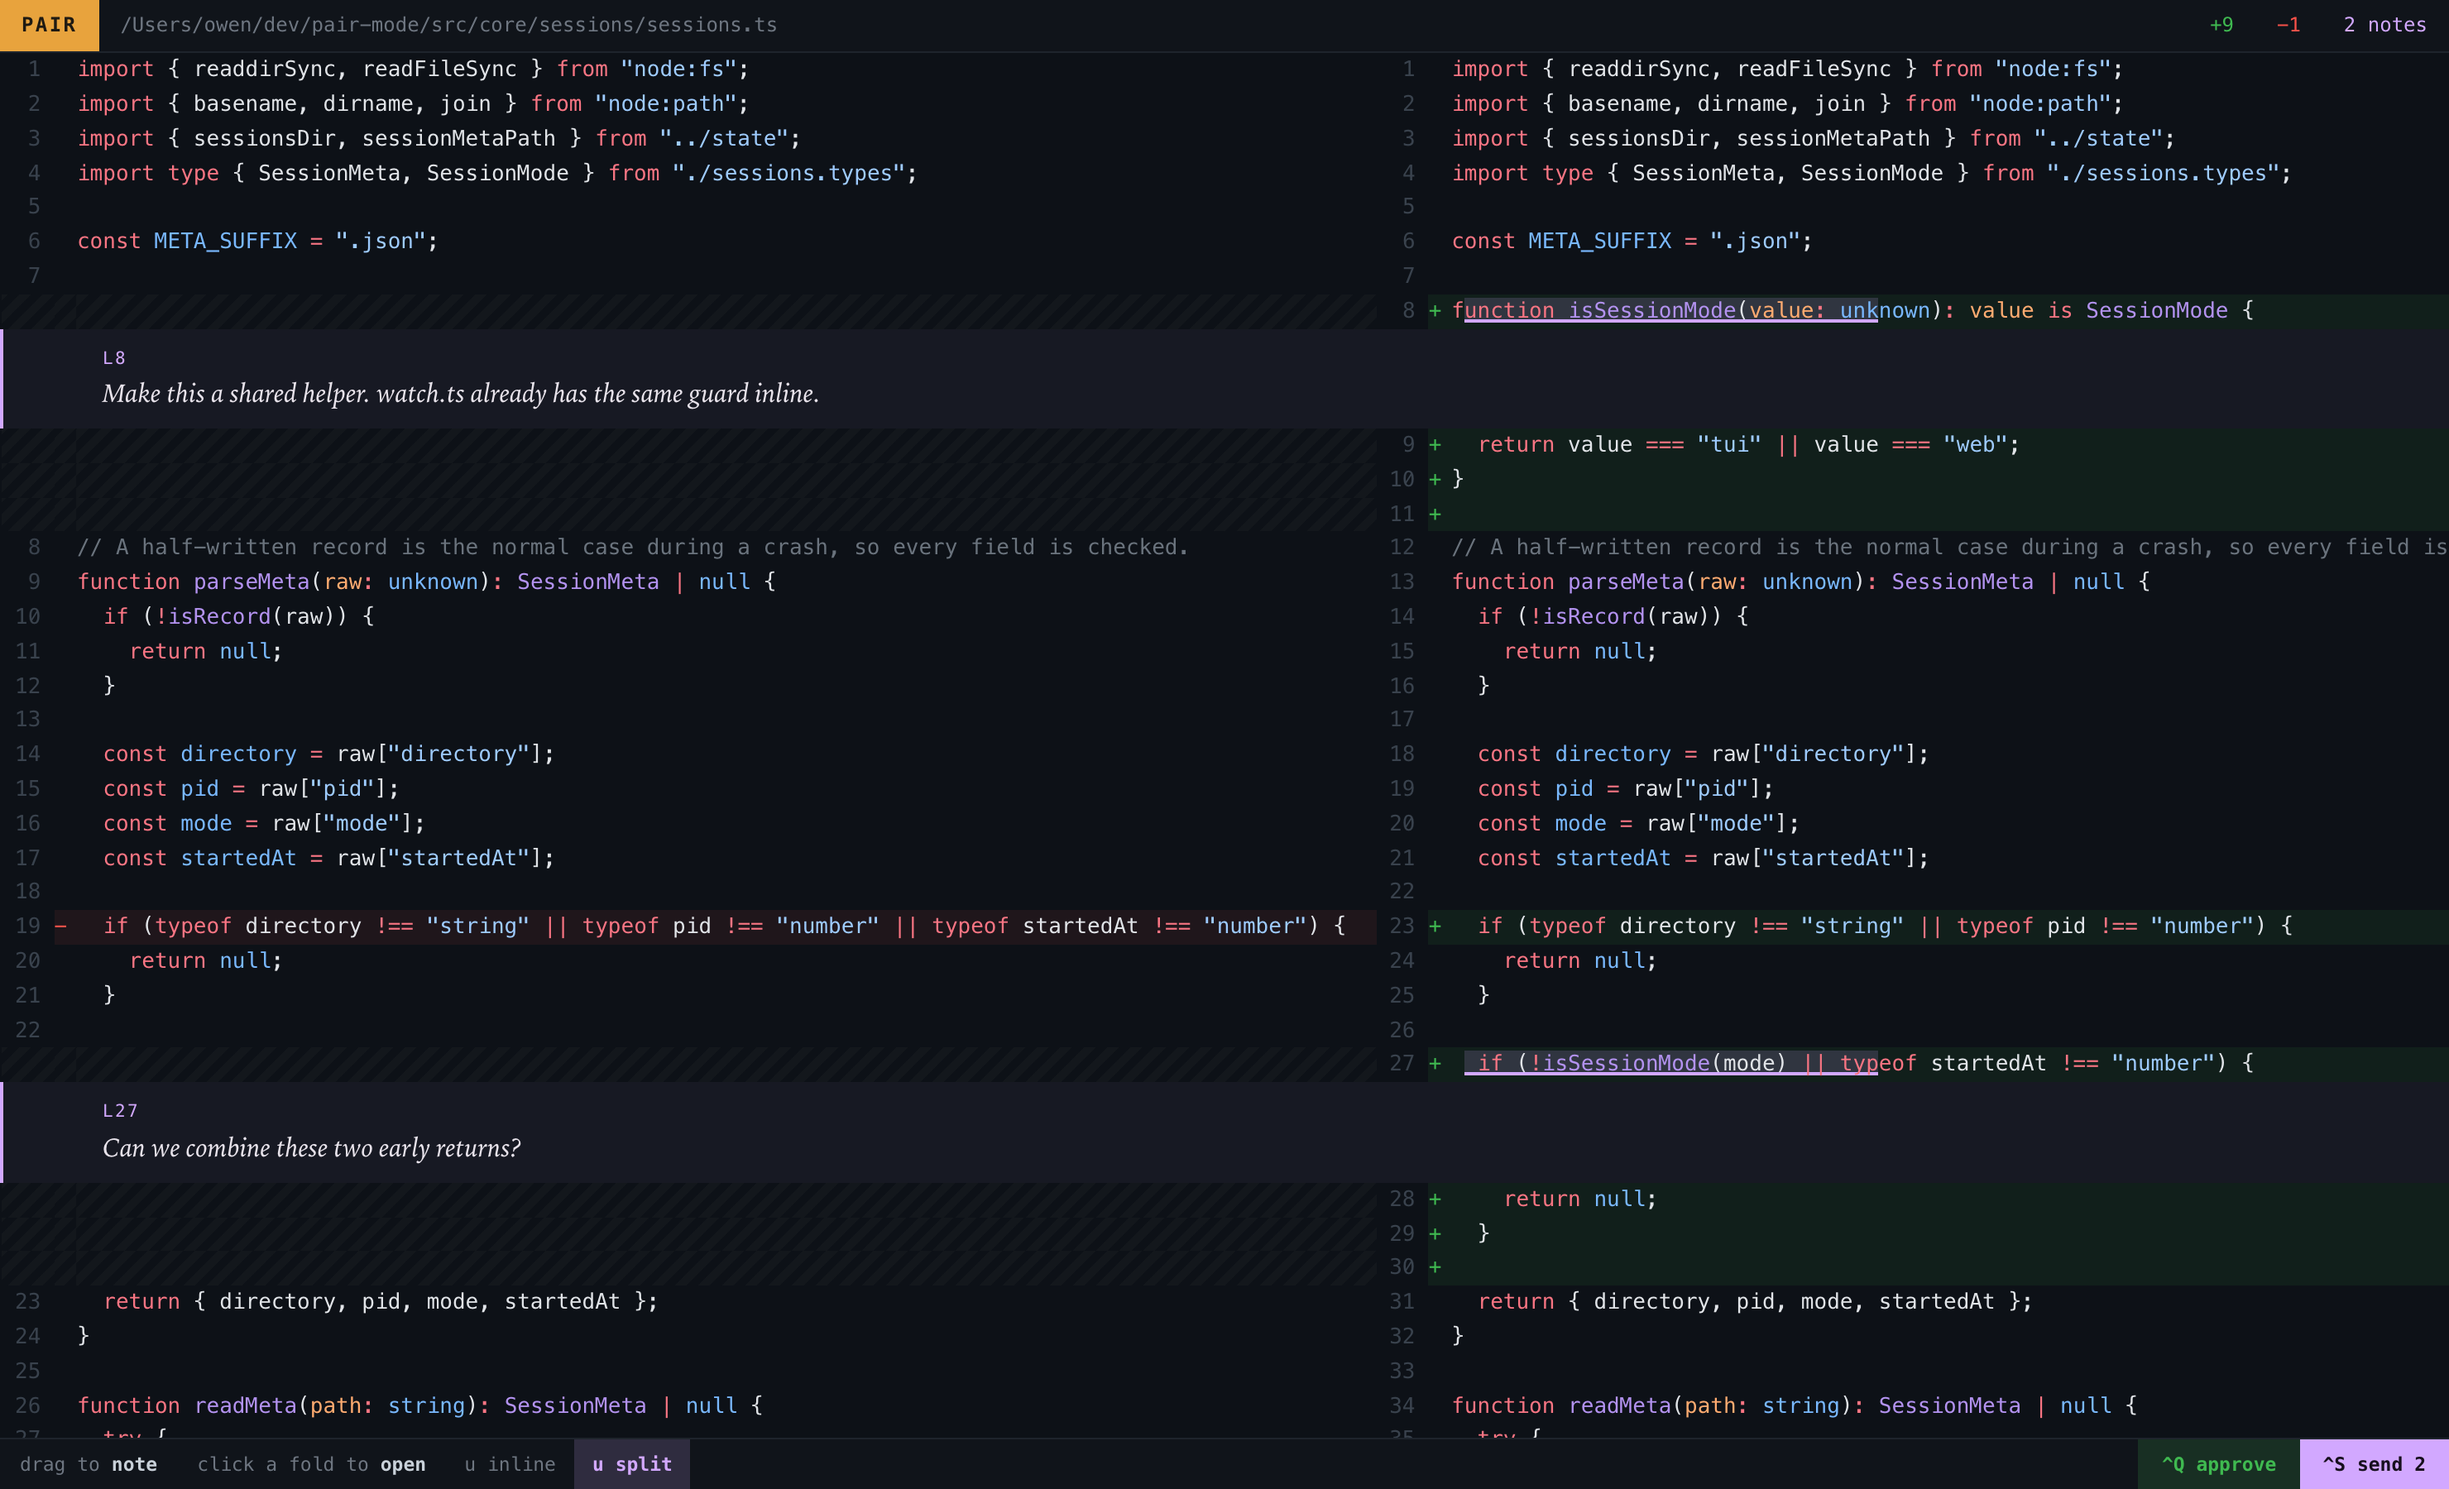
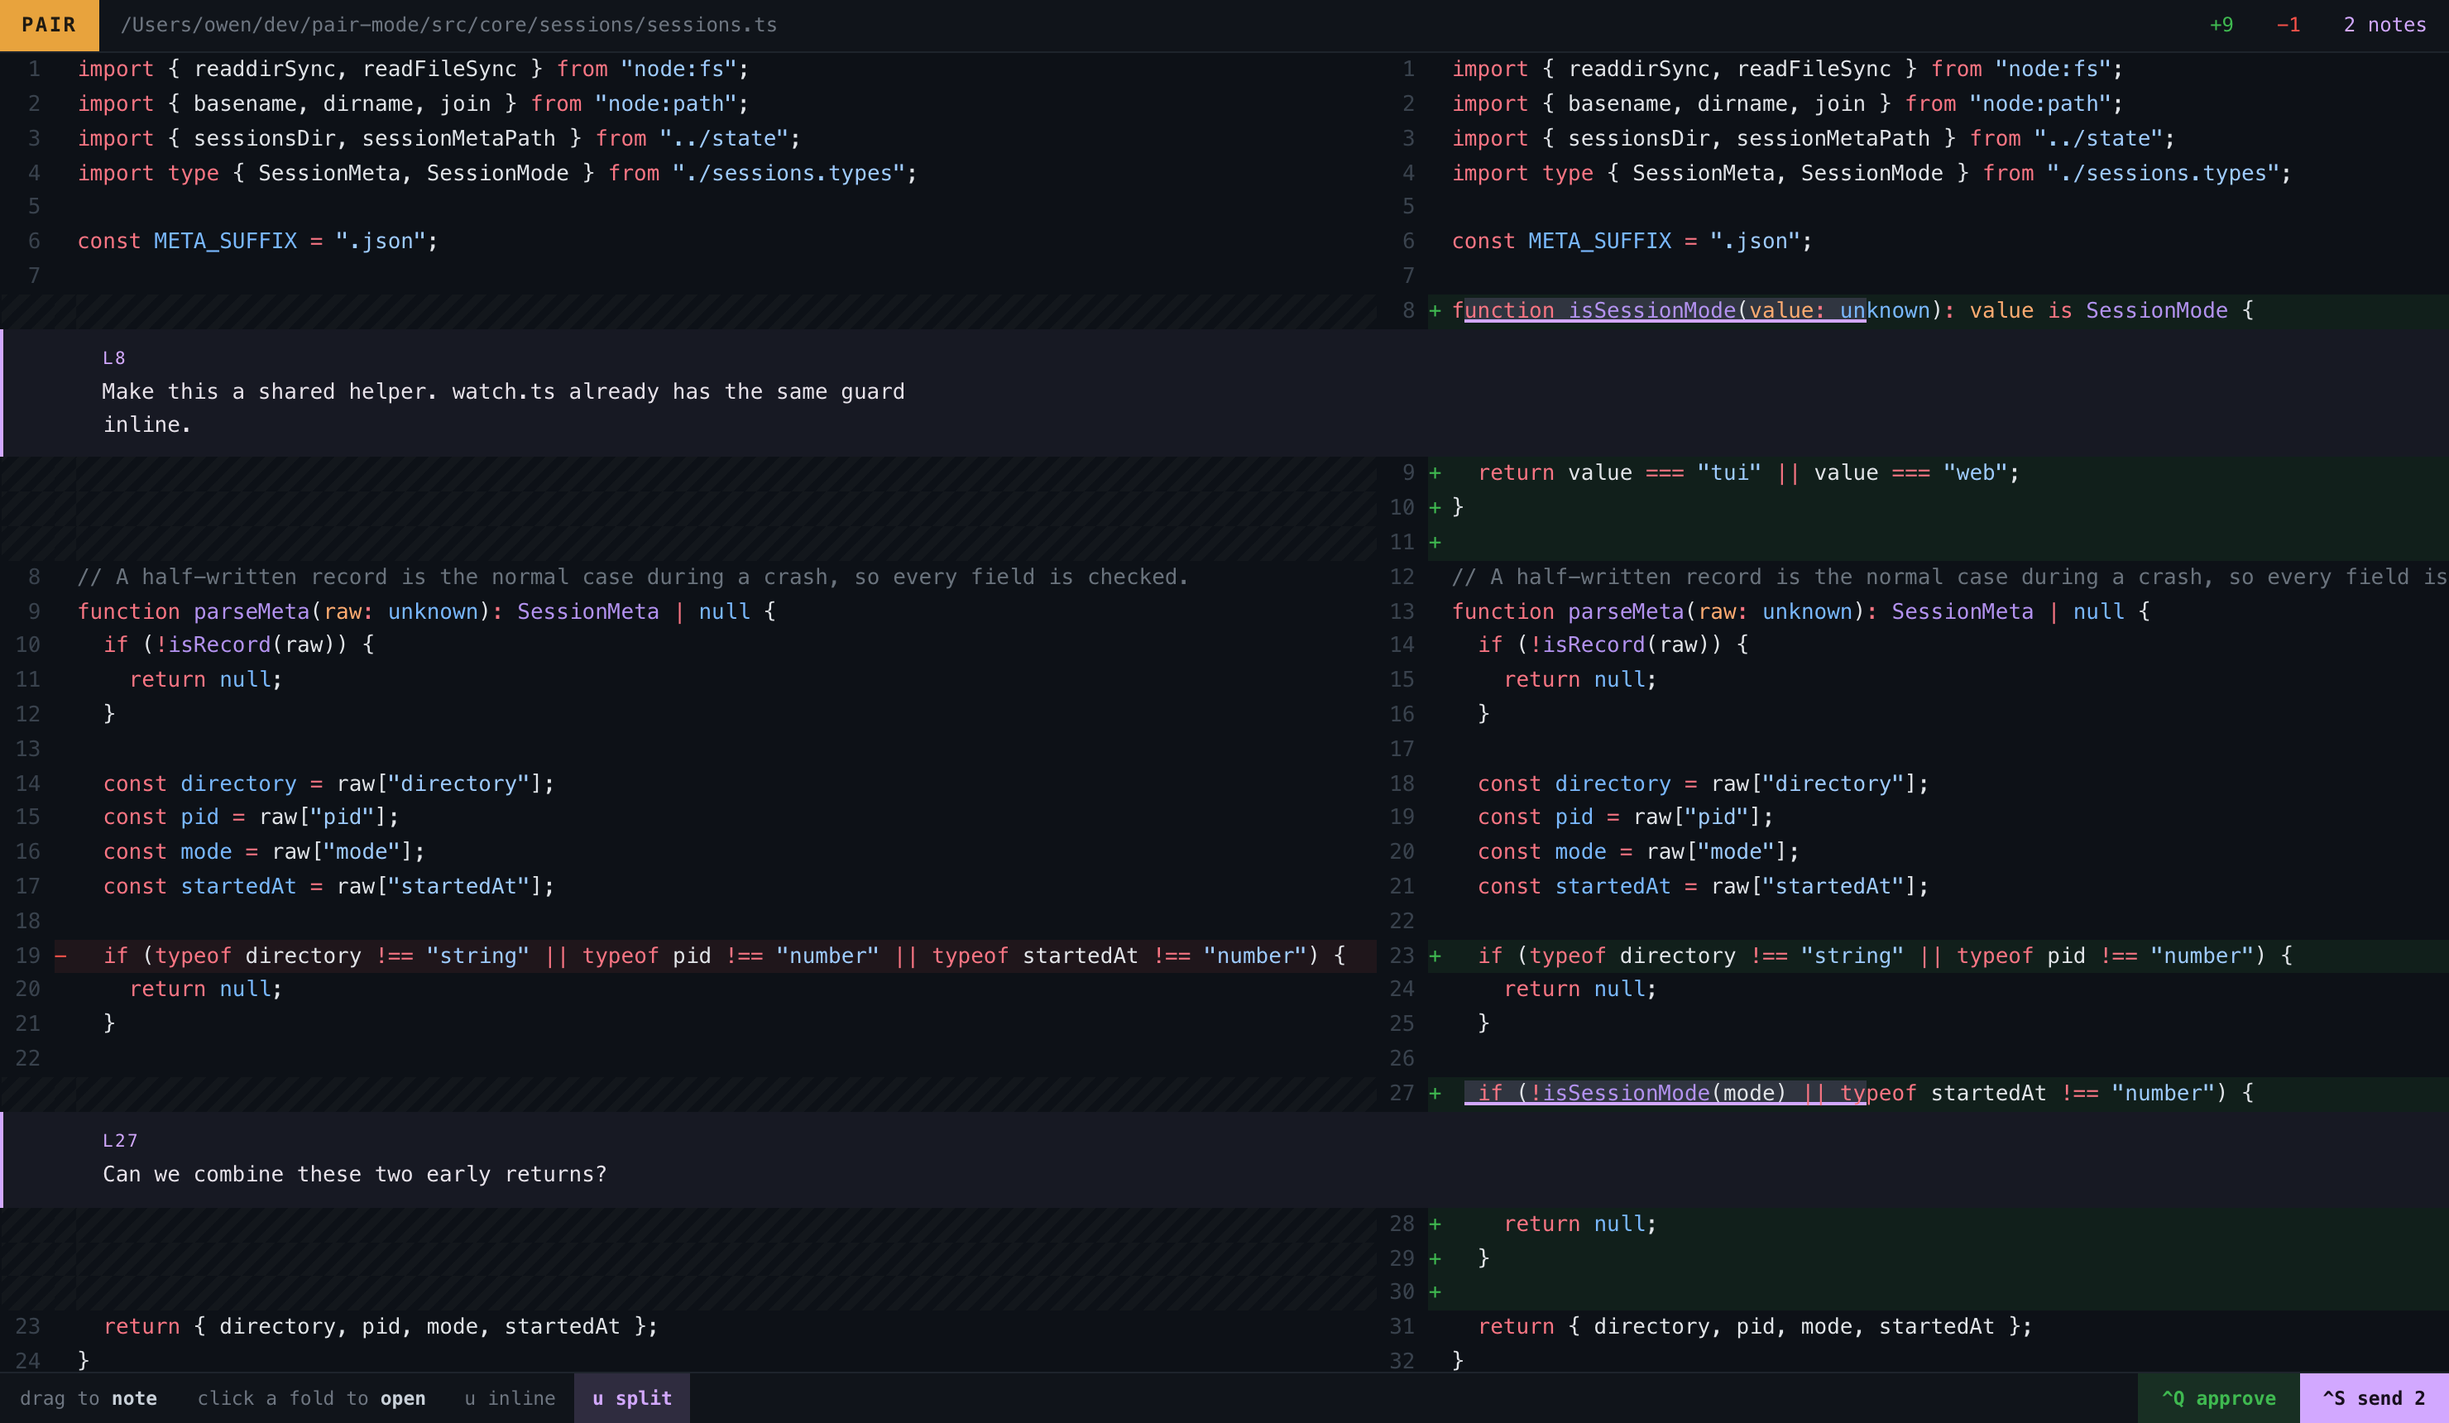
style(web): set every note in the page font
The notes read in a serif italic that sat oddly against the mono code.
They now use the same mono stack as the rest of the page. The purple
rule and the tint carry the difference between a note and a line.

Claude-Session: https://claude.ai/code/session_011i5Z4ukeVPTZmZ3peQGpPb

diff --git a/src/web/page.ts b/src/web/page.ts
@@ -18,7 +18,6 @@ const STYLE = `
   --note-tint: rgba(210, 168, 255, 0.16);
   --amber: ${theme.chrome};
   --mono: ui-monospace, SFMono-Regular, Menlo, Consolas, monospace;
-  --serif: "Iowan Old Style", Georgia, "Times New Roman", serif;
 }
 
 * { box-sizing: border-box; }
@@ -173,12 +172,10 @@ tr.thread .at {
 }
 
 tr.thread p, .note p {
-  margin: 2px 0 0;
+  margin: 3px 0 0;
   max-width: 62ch;
-  font-family: var(--serif);
-  font-style: italic;
-  font-size: 16px;
-  line-height: 1.42;
+  font-size: 13px;
+  line-height: 1.5;
   color: #e7e2ea;
 }
 
@@ -268,7 +265,7 @@ textarea {
   border-radius: 4px;
   background: var(--bg);
   color: var(--text);
-  font: italic 15px/1.4 var(--serif);
+  font: 13px/1.5 var(--mono);
   resize: vertical;
 }
 
